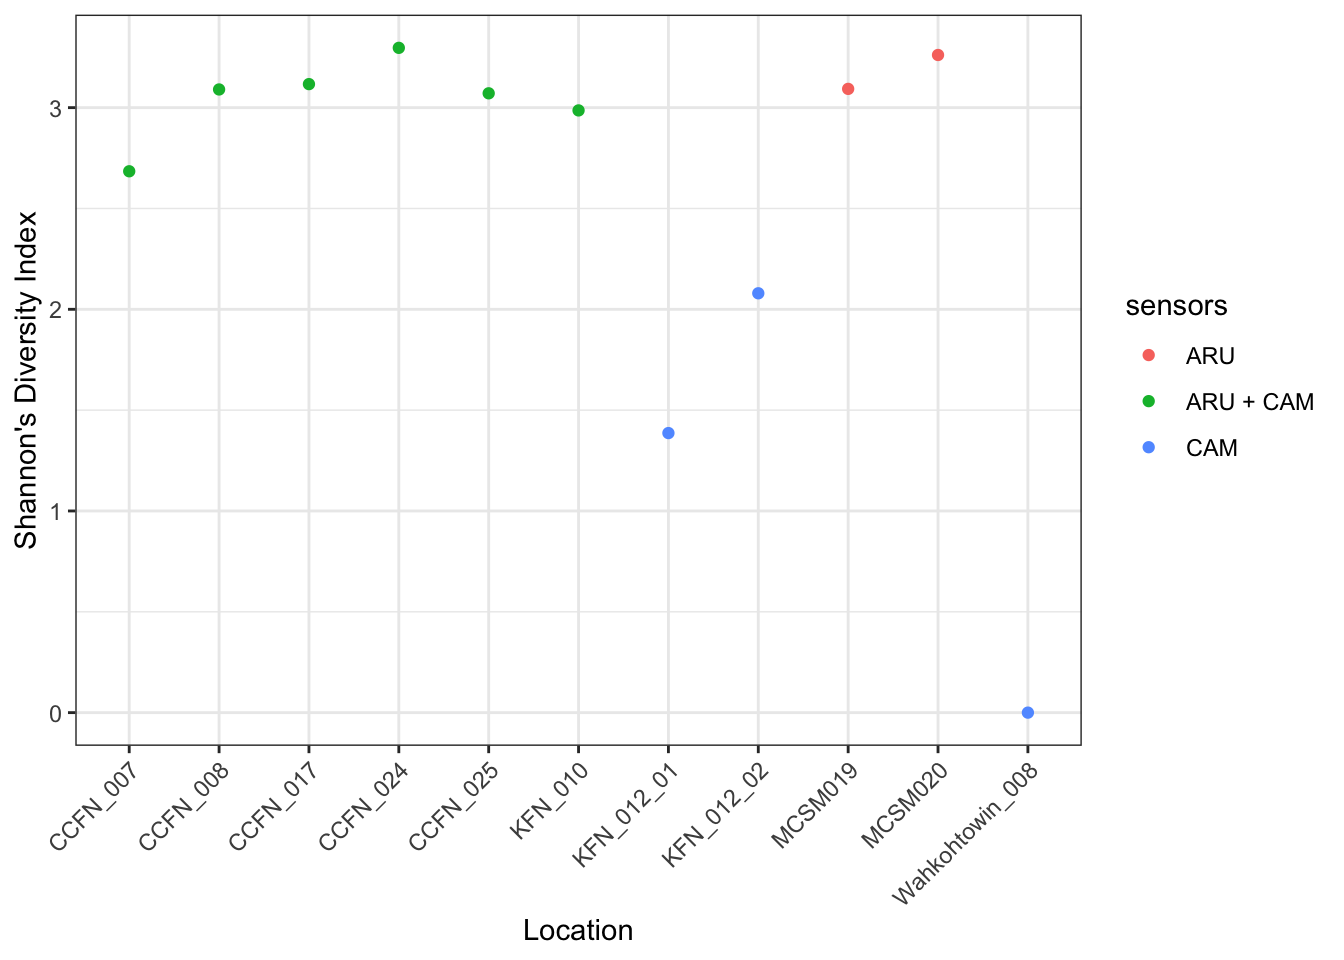
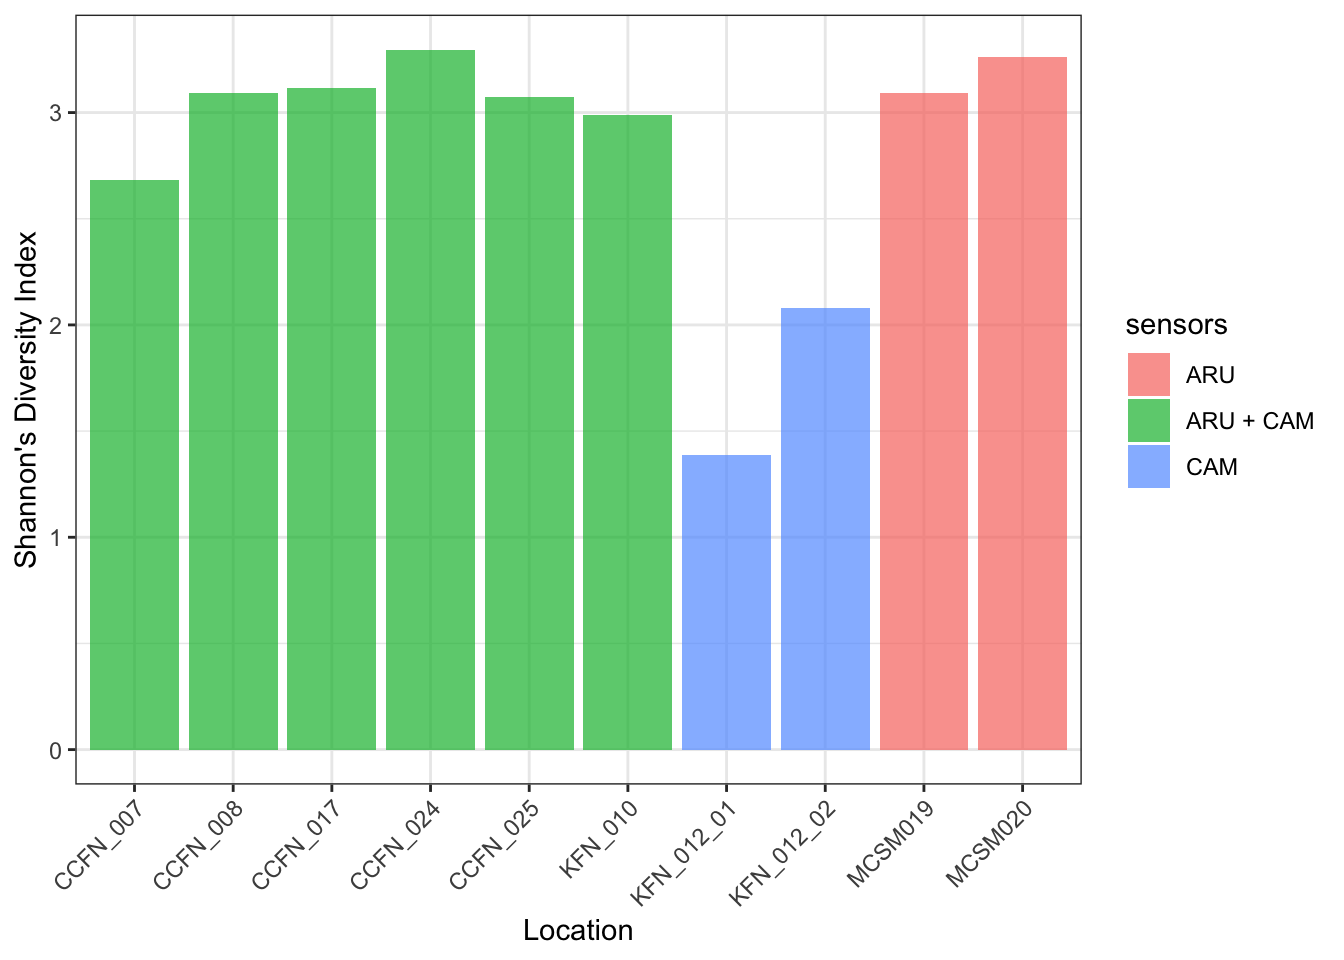
save data. fresh render for discussion

diff --git a/mushkegowuk.html b/mushkegowuk.html
@@ -402,7 +402,7 @@ Table&nbsp;3: Summary of image verified tags
 </section>
 <section id="results" class="level1">
 <h1>Results</h1>
-<p>A total of 82 species were detected across all sites. Individual species detections per location are summarized in <a href="#tbl-species-clean" class="quarto-xref">Table&nbsp;4</a> with the maximum individual count included. No species were detected on the camera at Wahkohtowin_007 and only a single series detection of Canada Lynx was found at Wahkohtowin_008 as demonstrated by the low diversity value in <a href="#fig-shannon" class="quarto-xref">Figure&nbsp;2</a>.</p>
+<p>A total of r length(unique(all_clean$species_common_name)) species were detected across all monitoring sites. Species detections by location are summarized in <a href="#tbl-species-clean" class="quarto-xref">Table&nbsp;4</a>, including the maximum count recorded for each species. No wildlife was detected by camera at Wahkohtowin_007, and only a single detection series of Canada Lynx was recorded at Wahkohtowin_008, consistent with the low diversity values shown in <a href="#fig-shannon" class="quarto-xref">Figure&nbsp;2</a>. The reduced species diversity observed at the northern sites likely reflects broader ecoregional differences, with tundra and James Bay Lowlands habitats supporting fewer species than the warmer, more diverse southern forested regions. Overall, we also observed a modest shift in community composition among nation deployments, as illustrated in <a href="#fig-community" class="quarto-xref">Figure&nbsp;3</a>.</p>
 <div class="cell">
 <details class="code-fold">
 <summary>Code</summary>
@@ -456,18 +456,19 @@ Table&nbsp;4: Summary
 <span id="cb4-5"><a href="#cb4-5" aria-hidden="true" tabindex="-1"></a>  <span class="fu">pivot_longer</span>(<span class="at">cols =</span> <span class="sc">-</span><span class="fu">c</span>(location<span class="sc">:</span>sensors), <span class="at">names_to =</span> <span class="st">"species"</span>, <span class="at">values_to =</span> <span class="st">"count"</span>) <span class="sc">|&gt;</span></span>
 <span id="cb4-6"><a href="#cb4-6" aria-hidden="true" tabindex="-1"></a>  <span class="fu">group_by</span>(location, nation, sensors) <span class="sc">|&gt;</span></span>
 <span id="cb4-7"><a href="#cb4-7" aria-hidden="true" tabindex="-1"></a>  <span class="fu">summarise</span>(<span class="at">shannon_index =</span> <span class="fu">diversity</span>(count, <span class="at">index =</span> <span class="st">"shannon"</span>)) <span class="sc">|&gt;</span></span>
-<span id="cb4-8"><a href="#cb4-8" aria-hidden="true" tabindex="-1"></a>  <span class="fu">ungroup</span>()</span>
-<span id="cb4-9"><a href="#cb4-9" aria-hidden="true" tabindex="-1"></a></span>
-<span id="cb4-10"><a href="#cb4-10" aria-hidden="true" tabindex="-1"></a>shannon_d <span class="sc">|&gt;</span></span>
-<span id="cb4-11"><a href="#cb4-11" aria-hidden="true" tabindex="-1"></a>  <span class="fu">ggplot</span>(<span class="fu">aes</span>(<span class="at">x=</span>location, <span class="at">y=</span>shannon_index, <span class="at">colour=</span>sensors)) <span class="sc">+</span> </span>
-<span id="cb4-12"><a href="#cb4-12" aria-hidden="true" tabindex="-1"></a>  <span class="fu">geom_point</span>() <span class="sc">+</span></span>
-<span id="cb4-13"><a href="#cb4-13" aria-hidden="true" tabindex="-1"></a>  <span class="fu">theme_bw</span>() <span class="sc">+</span></span>
-<span id="cb4-14"><a href="#cb4-14" aria-hidden="true" tabindex="-1"></a>  <span class="fu">theme</span>(<span class="at">axis.text.x =</span> <span class="fu">element_text</span>(<span class="at">angle =</span> <span class="dv">45</span>, <span class="at">hjust =</span> <span class="dv">1</span>)) <span class="sc">+</span></span>
-<span id="cb4-15"><a href="#cb4-15" aria-hidden="true" tabindex="-1"></a>  <span class="fu">ylab</span>(<span class="st">"Shannon's Diversity Index"</span>) <span class="sc">+</span></span>
-<span id="cb4-16"><a href="#cb4-16" aria-hidden="true" tabindex="-1"></a>  <span class="fu">xlab</span>(<span class="st">"Location"</span>)</span></code></pre></div><button title="Copy to Clipboard" class="code-copy-button"><i class="bi"></i></button></div>
+<span id="cb4-8"><a href="#cb4-8" aria-hidden="true" tabindex="-1"></a>  <span class="fu">ungroup</span>() <span class="sc">|&gt;</span></span>
+<span id="cb4-9"><a href="#cb4-9" aria-hidden="true" tabindex="-1"></a>  <span class="fu">filter</span>(<span class="sc">!</span>shannon_index <span class="sc">==</span> <span class="dv">0</span>)</span>
+<span id="cb4-10"><a href="#cb4-10" aria-hidden="true" tabindex="-1"></a></span>
+<span id="cb4-11"><a href="#cb4-11" aria-hidden="true" tabindex="-1"></a>shannon_d <span class="sc">|&gt;</span></span>
+<span id="cb4-12"><a href="#cb4-12" aria-hidden="true" tabindex="-1"></a>  <span class="fu">ggplot</span>(<span class="fu">aes</span>(<span class="at">x=</span>location, <span class="at">y=</span>shannon_index, <span class="at">fill=</span>sensors)) <span class="sc">+</span> </span>
+<span id="cb4-13"><a href="#cb4-13" aria-hidden="true" tabindex="-1"></a>  <span class="fu">geom_bar</span>(<span class="at">stat =</span> <span class="st">"identity"</span>, <span class="at">alpha =</span> <span class="fl">0.7</span>) <span class="sc">+</span></span>
+<span id="cb4-14"><a href="#cb4-14" aria-hidden="true" tabindex="-1"></a>  <span class="fu">theme_bw</span>() <span class="sc">+</span></span>
+<span id="cb4-15"><a href="#cb4-15" aria-hidden="true" tabindex="-1"></a>  <span class="fu">theme</span>(<span class="at">axis.text.x =</span> <span class="fu">element_text</span>(<span class="at">angle =</span> <span class="dv">45</span>, <span class="at">hjust =</span> <span class="dv">1</span>)) <span class="sc">+</span></span>
+<span id="cb4-16"><a href="#cb4-16" aria-hidden="true" tabindex="-1"></a>  <span class="fu">ylab</span>(<span class="st">"Shannon's Diversity Index"</span>) <span class="sc">+</span></span>
+<span id="cb4-17"><a href="#cb4-17" aria-hidden="true" tabindex="-1"></a>  <span class="fu">xlab</span>(<span class="st">"Location"</span>)</span></code></pre></div><button title="Copy to Clipboard" class="code-copy-button"><i class="bi"></i></button></div>
 </details>
 <div class="cell-output-display">
-<div id="fig-shannon" class="quarto-float quarto-figure quarto-figure-center anchored" data-fig-align="center" data-cap-location="bottom">
+<div id="fig-shannon" class="quarto-float quarto-figure quarto-figure-center anchored" data-cap-location="bottom" data-fig-align="center">
 <figure class="quarto-float quarto-float-fig figure">
 <div aria-describedby="fig-shannon-caption-0ceaefa1-69ba-4598-a22c-09a6ac19f8ca">
 <img src="mushkegowuk_files/figure-html/fig-shannon-1.png" class="img-fluid quarto-figure quarto-figure-center figure-img" width="672">
@@ -479,14 +480,70 @@ Figure&nbsp;2: Shannon diversity index at each location
 </div>
 </div>
 </div>
+<div class="cell" data-layout-align="center" data-cap-location="bottom">
+<details class="code-fold">
+<summary>Code</summary>
+<div class="code-copy-outer-scaffold"><div class="sourceCode cell-code" id="cb5" data-cap-location="bottom"><pre class="sourceCode r code-with-copy"><code class="sourceCode r"><span id="cb5-1"><a href="#cb5-1" aria-hidden="true" tabindex="-1"></a>wide <span class="ot">&lt;-</span> all_clean <span class="sc">|&gt;</span></span>
+<span id="cb5-2"><a href="#cb5-2" aria-hidden="true" tabindex="-1"></a>  <span class="fu">distinct</span>() <span class="sc">|&gt;</span></span>
+<span id="cb5-3"><a href="#cb5-3" aria-hidden="true" tabindex="-1"></a>  <span class="fu">mutate</span>(<span class="at">ns =</span> <span class="fu">case_when</span>(<span class="fu">grepl</span>(<span class="st">'CCFN)|Wahkohtowin'</span>,location) <span class="sc">~</span> <span class="st">"South"</span>, <span class="cn">TRUE</span> <span class="sc">~</span> <span class="st">"North"</span>)) <span class="sc">|&gt;</span></span>
+<span id="cb5-4"><a href="#cb5-4" aria-hidden="true" tabindex="-1"></a>  <span class="fu">group_by</span>(location, nation, sensors, ns) <span class="sc">|&gt;</span></span>
+<span id="cb5-5"><a href="#cb5-5" aria-hidden="true" tabindex="-1"></a>  <span class="fu">pivot_wider</span>(<span class="at">names_from =</span> species_common_name, <span class="at">values_from =</span> total_count, <span class="at">values_fill =</span> <span class="dv">0</span>, <span class="at">values_fn =</span> sum)</span>
+<span id="cb5-6"><a href="#cb5-6" aria-hidden="true" tabindex="-1"></a></span>
+<span id="cb5-7"><a href="#cb5-7" aria-hidden="true" tabindex="-1"></a>wide_env <span class="ot">&lt;-</span> wide <span class="sc">|&gt;</span> <span class="fu">select</span>(location, nation, sensors, ns)</span>
+<span id="cb5-8"><a href="#cb5-8" aria-hidden="true" tabindex="-1"></a></span>
+<span id="cb5-9"><a href="#cb5-9" aria-hidden="true" tabindex="-1"></a>t3 <span class="ot">&lt;-</span> <span class="fu">rda</span>(wide[,<span class="sc">-</span><span class="fu">c</span>(<span class="dv">1</span><span class="sc">:</span><span class="dv">4</span>)] <span class="sc">~</span> ns, <span class="at">data =</span> wide_env)</span>
+<span id="cb5-10"><a href="#cb5-10" aria-hidden="true" tabindex="-1"></a>t3scores <span class="ot">&lt;-</span> <span class="fu">scores</span>(t3, <span class="at">display =</span> <span class="st">"sites"</span>) <span class="sc">|&gt;</span></span>
+<span id="cb5-11"><a href="#cb5-11" aria-hidden="true" tabindex="-1"></a>  <span class="fu">as.data.frame</span>() <span class="sc">|&gt;</span></span>
+<span id="cb5-12"><a href="#cb5-12" aria-hidden="true" tabindex="-1"></a>  <span class="fu">rownames_to_column</span>(<span class="st">"site"</span>) <span class="sc">|&gt;</span></span>
+<span id="cb5-13"><a href="#cb5-13" aria-hidden="true" tabindex="-1"></a>  <span class="fu">bind_cols</span>(wide_env)</span>
+<span id="cb5-14"><a href="#cb5-14" aria-hidden="true" tabindex="-1"></a>t3vect <span class="ot">&lt;-</span> <span class="fu">scores</span>(t3, <span class="at">display =</span> <span class="st">"species"</span>) <span class="sc">|&gt;</span></span>
+<span id="cb5-15"><a href="#cb5-15" aria-hidden="true" tabindex="-1"></a>  <span class="fu">as.data.frame</span>()</span>
+<span id="cb5-16"><a href="#cb5-16" aria-hidden="true" tabindex="-1"></a></span>
+<span id="cb5-17"><a href="#cb5-17" aria-hidden="true" tabindex="-1"></a>plot_RDA <span class="ot">&lt;-</span> <span class="fu">ggplot</span>(<span class="at">data =</span> t3scores, <span class="fu">aes</span>(<span class="at">x =</span> RDA1, <span class="at">y =</span> PC1)) <span class="sc">+</span></span>
+<span id="cb5-18"><a href="#cb5-18" aria-hidden="true" tabindex="-1"></a>  <span class="fu">geom_point</span>(<span class="at">data =</span> t3scores, <span class="fu">aes</span>(<span class="at">x =</span> RDA1, <span class="at">y =</span> PC1, <span class="at">colour =</span> ns), </span>
+<span id="cb5-19"><a href="#cb5-19" aria-hidden="true" tabindex="-1"></a>             <span class="at">alpha =</span> <span class="fl">0.7</span>, <span class="at">size =</span> <span class="dv">3</span>, <span class="at">shape =</span> <span class="dv">16</span>) <span class="sc">+</span></span>
+<span id="cb5-20"><a href="#cb5-20" aria-hidden="true" tabindex="-1"></a>  <span class="fu">stat_ellipse</span>(<span class="at">data =</span> t3scores, <span class="fu">aes</span>(<span class="at">colour =</span> ns), </span>
+<span id="cb5-21"><a href="#cb5-21" aria-hidden="true" tabindex="-1"></a>               <span class="at">linetype =</span> <span class="dv">1</span>, <span class="at">type =</span> <span class="st">'norm'</span>, <span class="at">level =</span> <span class="fl">0.67</span>, <span class="at">size =</span> <span class="dv">1</span>) <span class="sc">+</span></span>
+<span id="cb5-22"><a href="#cb5-22" aria-hidden="true" tabindex="-1"></a>  <span class="fu">geom_vline</span>(<span class="at">xintercept =</span> <span class="dv">0</span>, <span class="at">color =</span> <span class="st">"#A19E99"</span>, <span class="at">linetype =</span> <span class="dv">2</span>, <span class="at">size =</span> <span class="dv">1</span>) <span class="sc">+</span></span>
+<span id="cb5-23"><a href="#cb5-23" aria-hidden="true" tabindex="-1"></a>  <span class="fu">geom_hline</span>(<span class="at">yintercept =</span> <span class="dv">0</span>, <span class="at">color =</span> <span class="st">"#A19E99"</span>, <span class="at">linetype =</span> <span class="dv">2</span>, <span class="at">size =</span> <span class="dv">1</span>) <span class="sc">+</span></span>
+<span id="cb5-24"><a href="#cb5-24" aria-hidden="true" tabindex="-1"></a>  <span class="fu">geom_segment</span>(<span class="at">data =</span> t3vect, <span class="fu">aes</span>(<span class="at">x =</span> <span class="dv">0</span>, <span class="at">y =</span> <span class="dv">0</span>, <span class="at">xend =</span> RDA1, <span class="at">yend =</span> PC1), </span>
+<span id="cb5-25"><a href="#cb5-25" aria-hidden="true" tabindex="-1"></a>               <span class="at">arrow =</span> <span class="fu">arrow</span>(<span class="at">length =</span> <span class="fu">unit</span>(<span class="fl">0.2</span>, <span class="st">"cm"</span>)), <span class="at">size =</span> <span class="fl">0.3</span>) <span class="sc">+</span></span>
+<span id="cb5-26"><a href="#cb5-26" aria-hidden="true" tabindex="-1"></a>  <span class="fu">geom_text_repel</span>(<span class="at">data =</span> t3vect, <span class="fu">aes</span>(<span class="at">x =</span> RDA1, <span class="at">y =</span> PC1, <span class="at">label =</span> <span class="fu">rownames</span>(t3vect)), </span>
+<span id="cb5-27"><a href="#cb5-27" aria-hidden="true" tabindex="-1"></a>                  <span class="at">size =</span> <span class="dv">3</span>, <span class="at">colour =</span> <span class="st">"black"</span>, <span class="at">fontface =</span> <span class="st">"italic"</span>, </span>
+<span id="cb5-28"><a href="#cb5-28" aria-hidden="true" tabindex="-1"></a>                  <span class="at">max.overlaps =</span> <span class="dv">10</span>, </span>
+<span id="cb5-29"><a href="#cb5-29" aria-hidden="true" tabindex="-1"></a>                  <span class="at">segment.color =</span> <span class="st">"grey70"</span>) <span class="sc">+</span></span>
+<span id="cb5-30"><a href="#cb5-30" aria-hidden="true" tabindex="-1"></a>  <span class="fu">theme_bw</span>() <span class="sc">+</span></span>
+<span id="cb5-31"><a href="#cb5-31" aria-hidden="true" tabindex="-1"></a>  <span class="fu">scale_colour_viridis_d</span>(<span class="at">option =</span> <span class="st">"cividis"</span>, <span class="at">end =</span> <span class="fl">0.9</span>) <span class="sc">+</span></span>
+<span id="cb5-32"><a href="#cb5-32" aria-hidden="true" tabindex="-1"></a>  <span class="fu">labs</span>(<span class="at">x =</span> <span class="st">"RDA1"</span>, <span class="at">y =</span> <span class="st">"PC1"</span>, <span class="at">title =</span> <span class="st">"Species associations per nation"</span>, </span>
+<span id="cb5-33"><a href="#cb5-33" aria-hidden="true" tabindex="-1"></a>       <span class="at">colour =</span> <span class="st">"Nation"</span>) <span class="sc">+</span></span>
+<span id="cb5-34"><a href="#cb5-34" aria-hidden="true" tabindex="-1"></a>  <span class="fu">theme</span>(<span class="at">legend.position =</span> <span class="st">"right"</span>, </span>
+<span id="cb5-35"><a href="#cb5-35" aria-hidden="true" tabindex="-1"></a>        <span class="at">legend.title =</span> <span class="fu">element_text</span>(<span class="at">size =</span> <span class="dv">10</span>), </span>
+<span id="cb5-36"><a href="#cb5-36" aria-hidden="true" tabindex="-1"></a>        <span class="at">legend.text =</span> <span class="fu">element_text</span>(<span class="at">size =</span> <span class="dv">9</span>), </span>
+<span id="cb5-37"><a href="#cb5-37" aria-hidden="true" tabindex="-1"></a>        <span class="at">plot.title =</span> <span class="fu">element_text</span>(<span class="at">hjust =</span> <span class="fl">0.5</span>, <span class="at">size =</span> <span class="dv">14</span>, <span class="at">face =</span> <span class="st">"bold"</span>))</span>
+<span id="cb5-38"><a href="#cb5-38" aria-hidden="true" tabindex="-1"></a></span>
+<span id="cb5-39"><a href="#cb5-39" aria-hidden="true" tabindex="-1"></a>plot_RDA</span></code></pre></div><button title="Copy to Clipboard" class="code-copy-button"><i class="bi"></i></button></div>
+</details>
+<div class="cell-output-display">
+<div id="fig-community" class="quarto-float quarto-figure quarto-figure-center anchored" data-cap-location="bottom" data-fig-align="center">
+<figure class="quarto-float quarto-float-fig figure">
+<div aria-describedby="fig-community-caption-0ceaefa1-69ba-4598-a22c-09a6ac19f8ca">
+<img src="mushkegowuk_files/figure-html/fig-community-1.png" class="img-fluid quarto-figure quarto-figure-center figure-img" width="672">
+</div>
+<figcaption class="quarto-float-caption-bottom quarto-float-caption quarto-float-fig" id="fig-community-caption-0ceaefa1-69ba-4598-a22c-09a6ac19f8ca">
+Figure&nbsp;3: Species associations for the northern and southern half of the region
+</figcaption>
+</figure>
+</div>
+</div>
+</div>
 </section>
 <section id="discussion" class="level1">
 <h1>Discussion</h1>
 <section id="recommendations" class="level2">
 <h2 class="anchored" data-anchor-id="recommendations">Recommendations</h2>
-<p>It is important to ensure independence of sampling locations to ensure that detections can be inferred in a spatially independent way. CCFN_007 and CCFN_008 were placed &lt;100 m from one another, meaning that the acoustic sampling area each ARU was sampling was likely overlapping, similar and not independent due to the effective detection radius of the ARUs. In a passive acoustic monitoring context, a minimum distance of 300 m is recommended.</p>
-<p>Cameras should also be placed in a manner that will allow them to maximize their detection potential. The obstructions and angles seen with these remote camera data helps</p>
-<p>To ensure the integrity and consistency of a long-term monitoring program, it is important to maintain a consistent survey schedule and timing each year when deploying ARUs. This consistency helps reduce variation caused by seasonal differences in species presence or activity. Additionally, the importance of regular maintenance and calibration of ARU equipment, particularly microphones, which degrade over time and can affect data quality if not properly managed after prolonged field use (see <span class="citation" data-cites="arus-mics">Turgeon, Wilgenburg, and Drake (<a href="#ref-arus-mics" role="doc-biblioref">2017</a>)</span>). Surveying locations with a history of monitoring over multiple years is key to tracking changes in species composition and detecting long-term trends. By including sites with both high and low species diversity, we can better understand how habitats and species ranges are shifting over time. Sites where species-at-risk are present are also prioritized to support conservation efforts. Together, these considerations inform the prioritized list of key sampling sites across the Muskegowuk Council region, as summarized in <a href="#tbl-prioritization" class="quarto-xref">Table&nbsp;5</a>.</p>
+<p>For acoustic sites, it is important to ensure independence of sampling locations to ensure that detections can be inferred in a spatially independent way. CCFN_007 and CCFN_008 were placed &lt;100 m from one another, meaning that the acoustic sampling area each ARU was sampling was likely overlapping, similar and not independent due to the effective detection radius of the ARUs. In a passive acoustic monitoring context, a minimum distance of 300 m is recommended. To ensure the integrity and consistency of a long-term monitoring program, it is important to maintain a consistent survey schedule and timing each year when deploying ARUs. This consistency helps reduce variation caused by seasonal differences in species presence or activity. Additionally, the importance of regular maintenance and calibration of ARU equipment, particularly microphones, which degrade over time and can affect data quality if not properly managed after prolonged field use (see <span class="citation" data-cites="arus-mics">Turgeon, Wilgenburg, and Drake (<a href="#ref-arus-mics" role="doc-biblioref">2017</a>)</span>). Surveying locations with a history of monitoring over multiple years is key to tracking changes in species composition and detecting long-term trends.</p>
+<p>Cameras should be deployed and oriented to maximize detection probability while minimizing obstructions and false triggers. Camera‐trap studies consistently show that vegetation blockage, poor sightlines, and inappropriate angles can substantially reduce wildlife detections and bias monitoring results. Cameras should therefore be placed along likely travel corridors (e.g., trails, habitat edges, riparian crossings) with clear views of the detection zone, and nearby grasses or branches should be trimmed up to 5 meters to prevent regular wind-driven triggers. Placement height (standard height of 1.5 meters) and angle (90 degrees or straight ahead) should be standardized for target species, and cameras should avoid facing open water or dense vegetation where movement and glare (i.e.&nbsp;facing cameras north) can reduce image quality and increase non-target captures. Implementing these best practices will improve detection consistency across sites and strengthen future occupancy and community assessments.</p>
+<p>By including sites with both high and low species diversity, we can better understand how habitats and species ranges are shifting over time. Sites where species-at-risk are present are also prioritized to support conservation efforts. Together, these considerations inform the prioritized list of key sampling sites across the Mushkegowuk Council region, as summarized in <a href="#tbl-prioritization" class="quarto-xref">Table&nbsp;5</a>.</p>
 <div id="tbl-prioritization" class="cell quarto-float quarto-figure quarto-figure-center anchored">
 <figure class="quarto-float quarto-float-tbl figure">
 <figcaption class="quarto-float-caption-top quarto-float-caption quarto-float-tbl" id="tbl-prioritization-caption-0ceaefa1-69ba-4598-a22c-09a6ac19f8ca">
@@ -495,39 +552,39 @@ Table&nbsp;5: Prioritization
 <div aria-describedby="tbl-prioritization-caption-0ceaefa1-69ba-4598-a22c-09a6ac19f8ca">
 <details class="code-fold">
 <summary>Code</summary>
-<div class="code-copy-outer-scaffold"><div class="sourceCode cell-code" id="cb5"><pre class="sourceCode r code-with-copy"><code class="sourceCode r"><span id="cb5-1"><a href="#cb5-1" aria-hidden="true" tabindex="-1"></a>repeat_priority <span class="ot">&lt;-</span> locs_summary <span class="sc">|&gt;</span></span>
-<span id="cb5-2"><a href="#cb5-2" aria-hidden="true" tabindex="-1"></a>  <span class="fu">rowwise</span>() <span class="sc">|&gt;</span></span>
-<span id="cb5-3"><a href="#cb5-3" aria-hidden="true" tabindex="-1"></a>  <span class="fu">mutate</span>(<span class="at">priority =</span> <span class="fu">sum</span>(<span class="fu">c_across</span>(<span class="st">`</span><span class="at">2022</span><span class="st">`</span><span class="sc">:</span><span class="st">`</span><span class="at">2024</span><span class="st">`</span>), <span class="at">na.rm =</span> <span class="cn">TRUE</span>)) <span class="sc">|&gt;</span></span>
-<span id="cb5-4"><a href="#cb5-4" aria-hidden="true" tabindex="-1"></a>  <span class="fu">ungroup</span>() <span class="sc">|&gt;</span></span>
-<span id="cb5-5"><a href="#cb5-5" aria-hidden="true" tabindex="-1"></a>  <span class="fu">arrange</span>(<span class="sc">-</span>priority)</span>
-<span id="cb5-6"><a href="#cb5-6" aria-hidden="true" tabindex="-1"></a></span>
-<span id="cb5-7"><a href="#cb5-7" aria-hidden="true" tabindex="-1"></a>rich_priority <span class="ot">&lt;-</span> spp_rich_location <span class="sc">|&gt;</span> <span class="fu">group_by</span>(location) <span class="sc">|&gt;</span> <span class="fu">summarise</span>(<span class="at">priority =</span> <span class="fu">mean</span>(species_count)) <span class="sc">|&gt;</span> <span class="fu">arrange</span>(<span class="sc">-</span>priority)</span>
-<span id="cb5-8"><a href="#cb5-8" aria-hidden="true" tabindex="-1"></a></span>
-<span id="cb5-9"><a href="#cb5-9" aria-hidden="true" tabindex="-1"></a>soi_priority <span class="ot">&lt;-</span> mc_main <span class="sc">|&gt;</span></span>
-<span id="cb5-10"><a href="#cb5-10" aria-hidden="true" tabindex="-1"></a>  <span class="fu">filter</span>(species_common_name <span class="sc">%in%</span> soi) <span class="sc">|&gt;</span></span>
-<span id="cb5-11"><a href="#cb5-11" aria-hidden="true" tabindex="-1"></a>  <span class="fu">select</span>(location, latitude, longitude, recording_date_time, species_common_name)  <span class="sc">|&gt;</span></span>
-<span id="cb5-12"><a href="#cb5-12" aria-hidden="true" tabindex="-1"></a>  <span class="fu">group_by</span>(location) <span class="sc">|&gt;</span></span>
-<span id="cb5-13"><a href="#cb5-13" aria-hidden="true" tabindex="-1"></a>  <span class="fu">summarise</span>(<span class="at">priority =</span> <span class="fu">n_distinct</span>(species_common_name))</span>
-<span id="cb5-14"><a href="#cb5-14" aria-hidden="true" tabindex="-1"></a></span>
-<span id="cb5-15"><a href="#cb5-15" aria-hidden="true" tabindex="-1"></a>prioritization_matrix <span class="ot">&lt;-</span> repeat_priority <span class="sc">|&gt;</span></span>
-<span id="cb5-16"><a href="#cb5-16" aria-hidden="true" tabindex="-1"></a>  <span class="fu">rename</span>(<span class="at">location =</span> Location) <span class="sc">|&gt;</span></span>
-<span id="cb5-17"><a href="#cb5-17" aria-hidden="true" tabindex="-1"></a>  <span class="fu">left_join</span>(rich_priority, <span class="at">by =</span> <span class="st">"location"</span>, <span class="at">suffix =</span> <span class="fu">c</span>(<span class="st">"_repeat"</span>, <span class="st">"_rich"</span>)) <span class="sc">|&gt;</span></span>
-<span id="cb5-18"><a href="#cb5-18" aria-hidden="true" tabindex="-1"></a>  <span class="fu">left_join</span>(soi_priority, <span class="at">by =</span> <span class="st">"location"</span>, <span class="at">suffix =</span> <span class="fu">c</span>(<span class="st">""</span>, <span class="st">"_soi"</span>)) <span class="sc">|&gt;</span></span>
-<span id="cb5-19"><a href="#cb5-19" aria-hidden="true" tabindex="-1"></a>  <span class="fu">mutate</span>(</span>
-<span id="cb5-20"><a href="#cb5-20" aria-hidden="true" tabindex="-1"></a>    <span class="at">priority_repeat =</span> <span class="fu">ifelse</span>(<span class="fu">is.na</span>(priority_repeat), <span class="dv">0</span>, priority_repeat),</span>
-<span id="cb5-21"><a href="#cb5-21" aria-hidden="true" tabindex="-1"></a>    <span class="at">priority_rich =</span> <span class="fu">ifelse</span>(<span class="fu">is.na</span>(priority_rich), <span class="dv">0</span>, priority_rich),</span>
-<span id="cb5-22"><a href="#cb5-22" aria-hidden="true" tabindex="-1"></a>    <span class="at">priority =</span> <span class="fu">ifelse</span>(<span class="fu">is.na</span>(priority), <span class="dv">0</span>, priority)</span>
-<span id="cb5-23"><a href="#cb5-23" aria-hidden="true" tabindex="-1"></a>  ) <span class="sc">|&gt;</span></span>
-<span id="cb5-24"><a href="#cb5-24" aria-hidden="true" tabindex="-1"></a>  <span class="fu">mutate</span>(<span class="at">combined_priority =</span> priority_repeat <span class="sc">*</span> <span class="dv">2</span> <span class="sc">+</span> priority_rich <span class="sc">+</span> priority) <span class="sc">|&gt;</span> <span class="co"># Created a weighted-sum</span></span>
-<span id="cb5-25"><a href="#cb5-25" aria-hidden="true" tabindex="-1"></a>  <span class="fu">select</span>(location, combined_priority) <span class="sc">|&gt;</span></span>
-<span id="cb5-26"><a href="#cb5-26" aria-hidden="true" tabindex="-1"></a>  <span class="fu">arrange</span>(<span class="sc">-</span>combined_priority)</span>
-<span id="cb5-27"><a href="#cb5-27" aria-hidden="true" tabindex="-1"></a></span>
-<span id="cb5-28"><a href="#cb5-28" aria-hidden="true" tabindex="-1"></a><span class="fu">datatable</span>(prioritization_matrix, </span>
-<span id="cb5-29"><a href="#cb5-29" aria-hidden="true" tabindex="-1"></a>          <span class="at">options =</span> <span class="fu">list</span>(</span>
-<span id="cb5-30"><a href="#cb5-30" aria-hidden="true" tabindex="-1"></a>            <span class="at">searching =</span> <span class="cn">TRUE</span>,  </span>
-<span id="cb5-31"><a href="#cb5-31" aria-hidden="true" tabindex="-1"></a>            <span class="at">paging =</span> <span class="cn">TRUE</span>,    </span>
-<span id="cb5-32"><a href="#cb5-32" aria-hidden="true" tabindex="-1"></a>            <span class="at">pageLength =</span> <span class="dv">10</span>   </span>
-<span id="cb5-33"><a href="#cb5-33" aria-hidden="true" tabindex="-1"></a>          ))</span></code></pre></div><button title="Copy to Clipboard" class="code-copy-button"><i class="bi"></i></button></div>
+<div class="code-copy-outer-scaffold"><div class="sourceCode cell-code" id="cb6"><pre class="sourceCode r code-with-copy"><code class="sourceCode r"><span id="cb6-1"><a href="#cb6-1" aria-hidden="true" tabindex="-1"></a>repeat_priority <span class="ot">&lt;-</span> locs_summary <span class="sc">|&gt;</span></span>
+<span id="cb6-2"><a href="#cb6-2" aria-hidden="true" tabindex="-1"></a>  <span class="fu">rowwise</span>() <span class="sc">|&gt;</span></span>
+<span id="cb6-3"><a href="#cb6-3" aria-hidden="true" tabindex="-1"></a>  <span class="fu">mutate</span>(<span class="at">priority =</span> <span class="fu">sum</span>(<span class="fu">c_across</span>(<span class="st">`</span><span class="at">2022</span><span class="st">`</span><span class="sc">:</span><span class="st">`</span><span class="at">2024</span><span class="st">`</span>), <span class="at">na.rm =</span> <span class="cn">TRUE</span>)) <span class="sc">|&gt;</span></span>
+<span id="cb6-4"><a href="#cb6-4" aria-hidden="true" tabindex="-1"></a>  <span class="fu">ungroup</span>() <span class="sc">|&gt;</span></span>
+<span id="cb6-5"><a href="#cb6-5" aria-hidden="true" tabindex="-1"></a>  <span class="fu">arrange</span>(<span class="sc">-</span>priority)</span>
+<span id="cb6-6"><a href="#cb6-6" aria-hidden="true" tabindex="-1"></a></span>
+<span id="cb6-7"><a href="#cb6-7" aria-hidden="true" tabindex="-1"></a>rich_priority <span class="ot">&lt;-</span> spp_rich_location <span class="sc">|&gt;</span> <span class="fu">group_by</span>(location) <span class="sc">|&gt;</span> <span class="fu">summarise</span>(<span class="at">priority =</span> <span class="fu">mean</span>(species_count)) <span class="sc">|&gt;</span> <span class="fu">arrange</span>(<span class="sc">-</span>priority)</span>
+<span id="cb6-8"><a href="#cb6-8" aria-hidden="true" tabindex="-1"></a></span>
+<span id="cb6-9"><a href="#cb6-9" aria-hidden="true" tabindex="-1"></a>soi_priority <span class="ot">&lt;-</span> mc_main <span class="sc">|&gt;</span></span>
+<span id="cb6-10"><a href="#cb6-10" aria-hidden="true" tabindex="-1"></a>  <span class="fu">filter</span>(species_common_name <span class="sc">%in%</span> soi) <span class="sc">|&gt;</span></span>
+<span id="cb6-11"><a href="#cb6-11" aria-hidden="true" tabindex="-1"></a>  <span class="fu">select</span>(location, latitude, longitude, recording_date_time, species_common_name)  <span class="sc">|&gt;</span></span>
+<span id="cb6-12"><a href="#cb6-12" aria-hidden="true" tabindex="-1"></a>  <span class="fu">group_by</span>(location) <span class="sc">|&gt;</span></span>
+<span id="cb6-13"><a href="#cb6-13" aria-hidden="true" tabindex="-1"></a>  <span class="fu">summarise</span>(<span class="at">priority =</span> <span class="fu">n_distinct</span>(species_common_name))</span>
+<span id="cb6-14"><a href="#cb6-14" aria-hidden="true" tabindex="-1"></a></span>
+<span id="cb6-15"><a href="#cb6-15" aria-hidden="true" tabindex="-1"></a>prioritization_matrix <span class="ot">&lt;-</span> repeat_priority <span class="sc">|&gt;</span></span>
+<span id="cb6-16"><a href="#cb6-16" aria-hidden="true" tabindex="-1"></a>  <span class="fu">rename</span>(<span class="at">location =</span> Location) <span class="sc">|&gt;</span></span>
+<span id="cb6-17"><a href="#cb6-17" aria-hidden="true" tabindex="-1"></a>  <span class="fu">left_join</span>(rich_priority, <span class="at">by =</span> <span class="st">"location"</span>, <span class="at">suffix =</span> <span class="fu">c</span>(<span class="st">"_repeat"</span>, <span class="st">"_rich"</span>)) <span class="sc">|&gt;</span></span>
+<span id="cb6-18"><a href="#cb6-18" aria-hidden="true" tabindex="-1"></a>  <span class="fu">left_join</span>(soi_priority, <span class="at">by =</span> <span class="st">"location"</span>, <span class="at">suffix =</span> <span class="fu">c</span>(<span class="st">""</span>, <span class="st">"_soi"</span>)) <span class="sc">|&gt;</span></span>
+<span id="cb6-19"><a href="#cb6-19" aria-hidden="true" tabindex="-1"></a>  <span class="fu">mutate</span>(</span>
+<span id="cb6-20"><a href="#cb6-20" aria-hidden="true" tabindex="-1"></a>    <span class="at">priority_repeat =</span> <span class="fu">ifelse</span>(<span class="fu">is.na</span>(priority_repeat), <span class="dv">0</span>, priority_repeat),</span>
+<span id="cb6-21"><a href="#cb6-21" aria-hidden="true" tabindex="-1"></a>    <span class="at">priority_rich =</span> <span class="fu">ifelse</span>(<span class="fu">is.na</span>(priority_rich), <span class="dv">0</span>, priority_rich),</span>
+<span id="cb6-22"><a href="#cb6-22" aria-hidden="true" tabindex="-1"></a>    <span class="at">priority =</span> <span class="fu">ifelse</span>(<span class="fu">is.na</span>(priority), <span class="dv">0</span>, priority)</span>
+<span id="cb6-23"><a href="#cb6-23" aria-hidden="true" tabindex="-1"></a>  ) <span class="sc">|&gt;</span></span>
+<span id="cb6-24"><a href="#cb6-24" aria-hidden="true" tabindex="-1"></a>  <span class="fu">mutate</span>(<span class="at">combined_priority =</span> priority_repeat <span class="sc">*</span> <span class="dv">2</span> <span class="sc">+</span> priority_rich <span class="sc">+</span> priority) <span class="sc">|&gt;</span> <span class="co"># Created a weighted-sum</span></span>
+<span id="cb6-25"><a href="#cb6-25" aria-hidden="true" tabindex="-1"></a>  <span class="fu">select</span>(location, combined_priority) <span class="sc">|&gt;</span></span>
+<span id="cb6-26"><a href="#cb6-26" aria-hidden="true" tabindex="-1"></a>  <span class="fu">arrange</span>(<span class="sc">-</span>combined_priority)</span>
+<span id="cb6-27"><a href="#cb6-27" aria-hidden="true" tabindex="-1"></a></span>
+<span id="cb6-28"><a href="#cb6-28" aria-hidden="true" tabindex="-1"></a><span class="fu">datatable</span>(prioritization_matrix, </span>
+<span id="cb6-29"><a href="#cb6-29" aria-hidden="true" tabindex="-1"></a>          <span class="at">options =</span> <span class="fu">list</span>(</span>
+<span id="cb6-30"><a href="#cb6-30" aria-hidden="true" tabindex="-1"></a>            <span class="at">searching =</span> <span class="cn">TRUE</span>,  </span>
+<span id="cb6-31"><a href="#cb6-31" aria-hidden="true" tabindex="-1"></a>            <span class="at">paging =</span> <span class="cn">TRUE</span>,    </span>
+<span id="cb6-32"><a href="#cb6-32" aria-hidden="true" tabindex="-1"></a>            <span class="at">pageLength =</span> <span class="dv">10</span>   </span>
+<span id="cb6-33"><a href="#cb6-33" aria-hidden="true" tabindex="-1"></a>          ))</span></code></pre></div><button title="Copy to Clipboard" class="code-copy-button"><i class="bi"></i></button></div>
 </details>
 </div>
 </figure>